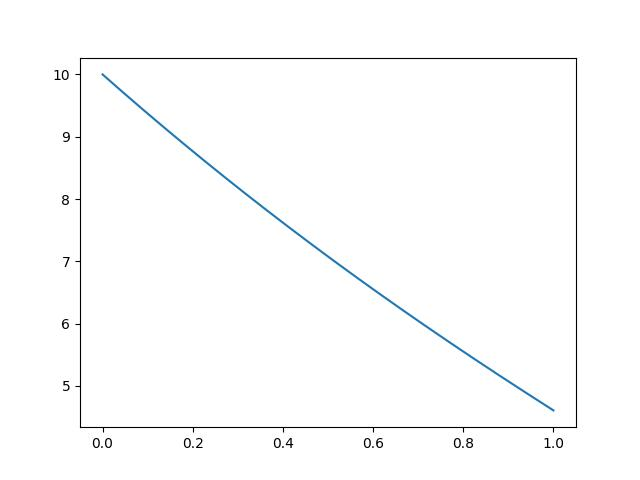
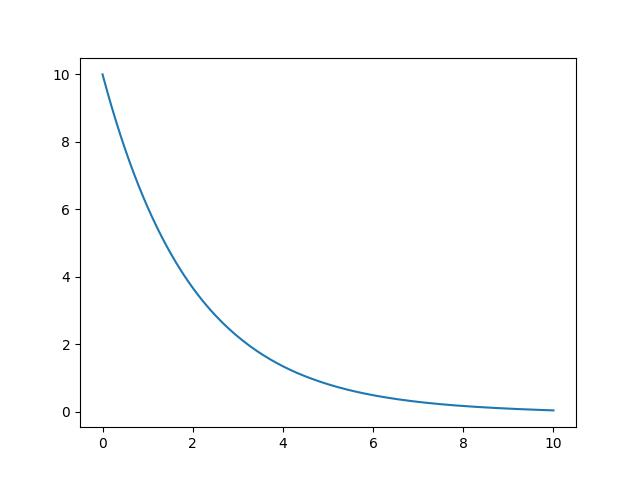
P2: Nash trajectory solver g(t) + N=1 sanity vs single-agent

diff --git a/nash_trajectories.py b/nash_trajectories.py
@@ -1,0 +1,20 @@
+# g solver
+
+from scipy.integrate import solve_ivp
+from coupled_ricatti import T, kappa, fun
+
+n = 1
+g=10
+
+sol_ricatti = solve_ivp(fun, (T, 0), [kappa, 0], dense_output=True, rtol=1e-10, atol=1e-12)
+
+def traj(t, g):
+    alpha, beta = sol_ricatti.sol(t)
+    dg = - (g/kappa) * (alpha - 2*n*beta / (n + 1))
+    return dg
+
+
+sol_g = solve_ivp(traj, t_span=(0, T), y0=[g], dense_output=True, rtol=1e-10, atol=1e-12)
+
+print(sol_g.y)
+

diff --git a/coupled_ricatti.py b/coupled_ricatti.py
@@ -25,7 +25,6 @@ ls = np.linspace(T, 0, 200)
 solve_ivp_c = solve_ivp(fun, t_span=(T, 0), y0=[kappa, 0], t_eval=ls,
                         rtol=1e-10, atol=1e-12)
 
-
 # sanity check 
 print(np.max(np.abs(solve_ivp_c.y[0] - solver.y[0])))
 

diff --git a/trajectory.py b/trajectory.py
@@ -41,3 +41,5 @@ if __name__ == "__main__":
     plt.plot(g_solver.t, u)
     plt.savefig("u_.jpg")
     plt.show()
+
+print(g_solver.y)
